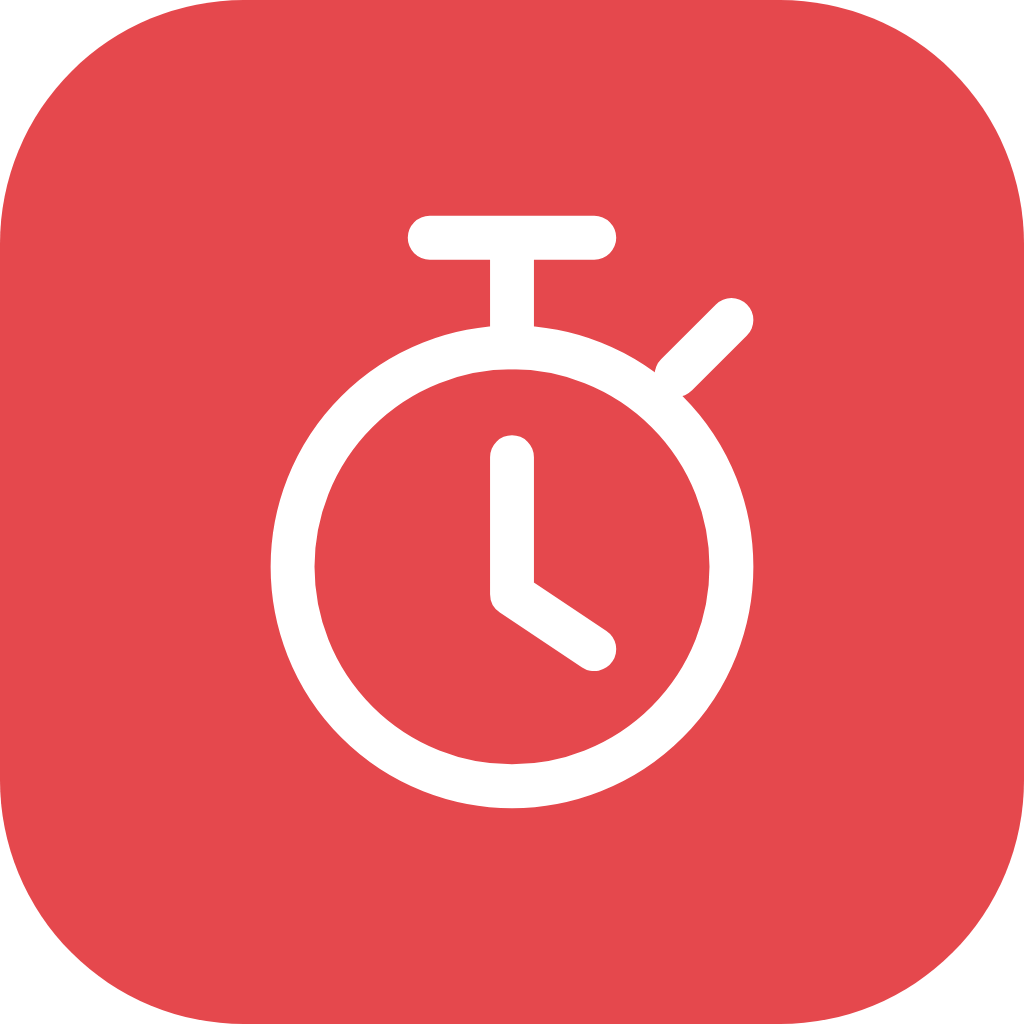
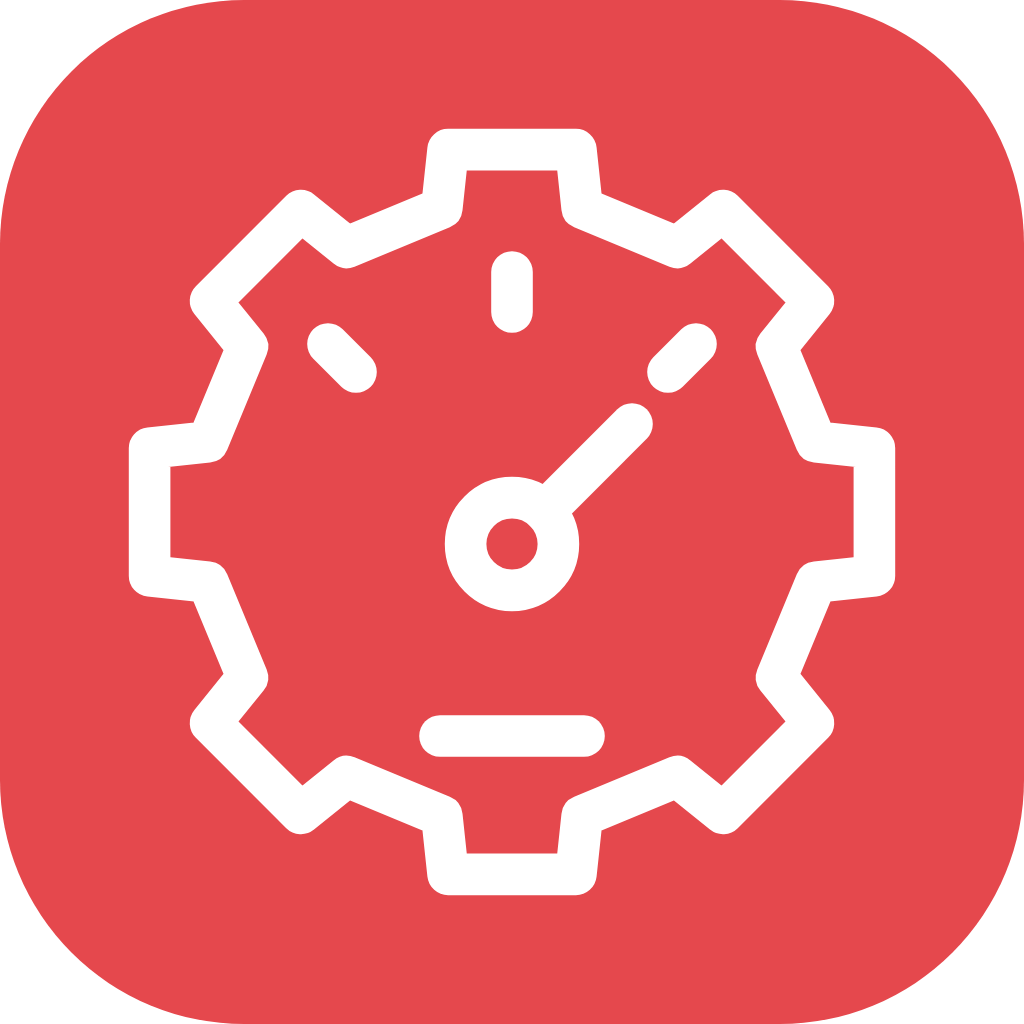
Release 0.8.1 with Gear and dial app identity

Changed region(s): [[0.125, 0.125, 0.875, 0.875]]

diff --git a/renderer/index.html b/renderer/index.html
@@ -1,6 +1,6 @@
 <!doctype html><html lang="en" data-theme="dark" data-tone="dark"><head><meta charset="utf-8"><meta name="viewport" content="width=device-width,initial-scale=1"><meta http-equiv="Content-Security-Policy" content="default-src 'self'; script-src 'self'; style-src 'self'; img-src 'self' data:; connect-src 'none'; object-src 'none'; base-uri 'none'; form-action 'none'"><title>SlotForge Telemetry</title><link rel="icon" href="../assets/icon.svg"><link rel="stylesheet" href="styles.css"><link rel="stylesheet" href="themes.css"><link rel="stylesheet" href="performance.css"><link rel="stylesheet" href="pages.css"><link rel="stylesheet" href="category-design.css"><link rel="stylesheet" href="race.css"></head><body>
 <header class="app-header"><a class="brand" href="#telemetry"><span class="brand-mark"></span><span>SlotForge <b>Telemetry</b><small>THE SLOT CAR WORKBENCH</small></span></a><nav class="main-nav" aria-label="Main navigation"><a href="#telemetry" data-route="telemetry" >Telemetry</a><a href="#analyze" data-route="analyze" >Analyze</a><a href="#library" data-route="library" id="library-button">Library<small id="library-count">0</small></a><a href="#settings" data-route="settings" >Settings</a></nav><div class="theme-switch" role="group" aria-label="Colour mode"><button data-tone-choice="light">☀ Light</button><button data-tone-choice="dark">☾ Dark</button></div></header>
-<div class="workspace-bar"><span id="paddock-global-status"><i class="dot"></i> Local workspace · offline</span><span id="save-state" role="status">Ready</span><span class="version">TELEMETRY 0.8.0</span></div><main>
+<div class="workspace-bar"><span id="paddock-global-status"><i class="dot"></i> Local workspace · offline</span><span id="save-state" role="status">Ready</span><span class="version">TELEMETRY 0.8.1</span></div><main>
 <section data-page="telemetry"><div class="page-head"><div><p class="eyebrow">YOUR WORKBENCH</p><h1>Telemetry</h1><p>Build your setup. See the numbers come together.</p></div><div class="actions"><button class="btn" id="new-setup">New setup</button><button class="btn" id="open-setup">Open file</button><button class="btn" id="save-setup">Export file</button><button class="btn" id="save-copy">Save as copy</button><button class="btn primary" id="save-library">Save setup</button></div></div><p id="library-workspace-status" class="library-workspace-status" role="status"></p><input id="setup-file" type="file" accept=".json,application/json" hidden>
 <nav id="setup-sections" class="tabs setup-sections" aria-label="Jump to setup inputs"></nav><div class="calculator-layout"><aside class="input-column" aria-label="Setup inputs">
         <section class="panel setup-panel"><div class="section-heading"><h2>Your setup</h2><button class="text-button" id="load-example">Load example</button></div><label class="field">Setup name<input id="name" name="name" maxlength="100" placeholder="e.g. Club GT · short track"></label></section>
@@ -12,7 +12,7 @@
 <section data-page="analyze" hidden><div class="page-head"><div><p class="eyebrow">UNDERSTAND YOUR SETUP</p><h1>Analyze</h1><p>Explore saved setups and make informed changes.</p></div><div class="segmented"><a href="#analyze" data-analysis-mode="overview">Setup analysis</a><a href="#analyze/compare" data-analysis-mode="compare">Compare setups</a></div></div><div id="analysis-empty" class="library-empty"><h2>Start with a saved setup.</h2><p>Save a setup from Telemetry to explore its numbers here.</p><a class="btn primary" href="#telemetry">Go to Telemetry</a></div><div id="analysis-content"><div id="analysis-overview"><div class="panel analysis-toolbar"><label class="field">Saved setup<select id="analysis-setup"></select></label><span class="badge">SAVED VERSION</span><button class="btn" id="analysis-edit">Edit in Telemetry</button></div><nav class="tabs" aria-label="Analysis topics"><button data-analysis-topic="performance" class="active">Performance</button><button data-analysis-topic="weight">Weight & ballast</button><button data-analysis-topic="wear">Tyre wear & clearance</button><button data-analysis-topic="gears">Gear finder</button><button data-analysis-topic="laps">Lap speed</button></nav><div id="analysis-performance" data-analysis-panel="performance"><div id="analysis-stats"></div><div id="curve-results"></div></div><section data-analysis-panel="weight" hidden><div id="weight-results" class="telemetry-results"></div></section><section data-analysis-panel="wear" hidden><div id="wear-results" class="telemetry-results"></div></section><section data-analysis-panel="gears" hidden><div id="gears-results" class="telemetry-results"></div></section><section data-analysis-panel="laps" hidden><div id="laps-results" class="telemetry-results"></div></section><p class="hint">Analysis uses the saved version. Changes in Telemetry appear here after you save them.</p></div><div id="analysis-compare" hidden><div class="panel compare-selectors"><label class="field">Setup A · baseline<select id="compare-a"></select></label><span class="versus">vs</span><label class="field">Setup B · alternative<select id="compare-b"></select></label></div><div class="comparison-toolbar"><h2>Side by side.</h2><label class="field">Highlight benefits for<select id="compare-goal"><option value="speed">Speed & driving force</option><option value="power">Power-to-weight</option><option value="neutral">Neutral differences</option></select></label></div><div id="comparison"></div><p class="hint">Green ↑ = higher selected performance metric. Red ↓ = lower. Gearing, rollout, weight and measured lap averages stay neutral: their value depends on the track and test conditions. A faster no-load ceiling does not guarantee a faster lap.</p></div></div></section>
 <section data-page="library" hidden><div class="page-head"><div><p class="eyebrow">YOUR SAVED SETUPS</p><h1>Library</h1><p>A place for every car, every track, every experiment.</p></div><div class="actions"><button class="btn" id="library-import">Import library</button><button class="btn" id="library-backup">Export library</button><a href="#telemetry" class="btn primary">Open workbench</a></div></div><div class="library-toolbar"><label class="field library-search">Search names & notes<input id="library-search" type="search" placeholder="Find a car or setup…"></label><label class="field">Sort<select id="library-sort"><option value="recent">Recently saved</option><option value="name">Name A–Z</option></select></label></div><input id="library-file" type="file" accept=".json,application/json" hidden><p id="library-error" class="note" role="alert" hidden></p><button class="btn" id="library-recover-export" hidden>Export unreadable data</button><div class="library-feedback"><p id="library-message" role="status"></p><button class="btn small" id="library-undo" hidden>Undo delete</button></div><div class="library-layout"><div id="library-list"></div><aside id="library-detail" class="panel"></aside></div><p class="hint">Saved on this device. Export your library to keep a separate backup.</p></section>
 <section data-page="settings" hidden><div class="page-head"><div><p class="eyebrow">MAKE IT YOUR WORKBENCH</p><h1>Settings</h1><p>Your appearance. Your understanding.</p></div></div><div class="settings-layout"><nav class="settings-nav" aria-label="Settings"><a href="#settings/appearance">Appearance</a><a href="#settings/calculations/gearing">Calculations explained</a></nav><div><section id="settings-appearance" class="panel"><h2>Appearance</h2><p class="muted">Familiar colours from the SlotForge family.</p><div id="theme-grid" class="theme-grid"></div><div id="custom-colors" hidden><div id="color-grid" class="color-grid"></div><p id="contrast-warning" class="hint"></p></div><p class="hint">The Light / Dark switch remembers your most recently selected theme in each mode.</p></section><section id="settings-calculations" hidden><h2>Calculations explained</h2><p class="muted">What each number means, how it is calculated, and where theory ends.</p><nav id="help-topics" class="help-topics" aria-label="Calculation topics"></nav><article id="help-content"></article></section></div></div></section>
-<footer><span>SlotForge Telemetry <b>0.8.0</b></span><span>Part of the SlotForge family · built from Paddock</span></footer></main><dialog id="library-editor" aria-labelledby="library-editor-title"><div class="dialog-head"><h2 id="library-editor-title">Save a setup</h2></div><div class="dialog-body"><p id="library-editor-description" class="muted tiny"></p><label class="field" id="library-name-field">Setup name<input id="library-entry-name" maxlength="100" autocomplete="off"></label><label class="field" id="library-notes-field">Notes<textarea id="library-entry-notes" maxlength="2000" rows="3" placeholder="Car, track, or what makes this setup different"></textarea></label><p id="library-editor-error" class="note" role="alert"></p><div class="actions"><button class="btn primary" id="library-editor-confirm">Save to library</button><button class="btn" id="library-save-copy" hidden>Save as new copy</button><button class="btn" id="library-editor-cancel">Cancel</button></div></div></dialog><div id="toast" role="status" hidden></div>
+<footer><span>SlotForge Telemetry <b>0.8.1</b></span><span>Part of the SlotForge family · built from Paddock</span></footer></main><dialog id="library-editor" aria-labelledby="library-editor-title"><div class="dialog-head"><h2 id="library-editor-title">Save a setup</h2></div><div class="dialog-body"><p id="library-editor-description" class="muted tiny"></p><label class="field" id="library-name-field">Setup name<input id="library-entry-name" maxlength="100" autocomplete="off"></label><label class="field" id="library-notes-field">Notes<textarea id="library-entry-notes" maxlength="2000" rows="3" placeholder="Car, track, or what makes this setup different"></textarea></label><p id="library-editor-error" class="note" role="alert"></p><div class="actions"><button class="btn primary" id="library-editor-confirm">Save to library</button><button class="btn" id="library-save-copy" hidden>Save as new copy</button><button class="btn" id="library-editor-cancel">Cancel</button></div></div></dialog><div id="toast" role="status" hidden></div>
 <script src="paddock-icons.js"></script><script src="design.js"></script><script src="theme.js"></script><script src="performance-model.js"></script><script src="telemetry-model.js"></script><script src="calculator-model.js"></script><script src="compare-model.js"></script><script src="performance-view.js"></script><script src="telemetry-view.js"></script><script src="library-model.js"></script><script src="library.js"></script><script src="pages.js"></script><script src="help.js"></script><script src="race-model.js"></script><script src="race-insights.js"></script><script src="race-progress.js"></script><script src="manual-laps-model.js"></script>
   <script src="manual-laps-ui.js"></script>
   <script src="race-ui.js"></script><script src="app.js"></script></body></html>

diff --git a/renderer/category-design.css b/renderer/category-design.css
@@ -15,3 +15,6 @@ main{padding:24px 28px}.page-head{margin-bottom:20px}.page-head h1{font-size:27p
 .calculation-detail{margin:18px 0;border-top:2px solid var(--category)}.calculation-detail h3{display:flex;align-items:center;gap:8px;margin-top:0}.calculation-detail h3 .sf-icon{color:var(--category);width:24px;height:24px;flex:none}.calculation-detail td{white-space:nowrap}.calculation-detail th{min-width:140px}.calculation-detail .hint{margin-bottom:0}
 
 .setup-sections{margin:0 0 20px;display:flex;align-items:center}.input-nav-label{font-size:12px;color:var(--muted);margin-right:6px}.setup-input-group{margin-top:18px;padding-top:18px;border-top:1px solid var(--line)}.setup-input-group.panel{margin-top:0;border-top:2px solid var(--category)}.setup-input-group h3{display:flex;align-items:center;gap:10px}.setup-input-group h3 .sf-icon{color:var(--category);width:25px;height:25px}.input-column .panel{scroll-margin-top:18px}.analysis-input-link{display:flex;align-items:center;justify-content:space-between;gap:12px;margin:0 0 16px;font-size:12px;color:var(--muted)}.analysis-input-link .btn{border-color:var(--category);flex-shrink:0}.analysis-input-link .sf-icon{color:var(--category);margin-right:7px}@media(max-width:760px){.analysis-input-link{flex-wrap:wrap}.setup-sections .input-nav-label{width:100%}}
+
+/* Keep the canonical app badge square at every responsive header size. */
+.brand-mark{height:auto;aspect-ratio:1;flex-shrink:0;background:none;border-radius:0}.brand-mark img{display:block;width:100%;height:auto}

diff --git a/renderer/design.js b/renderer/design.js
@@ -3,7 +3,7 @@ function initializeDesign(){
   const homeHead=document.querySelector('[data-page=telemetry] .page-head'),setupPanel=document.querySelector('.setup-panel');
   homeHead.classList.add('workbench-toolbar');homeHead.firstElementChild.replaceChildren(setupPanel);
   const decorate=(selector,name)=>{for(const el of document.querySelectorAll(selector))el.insertAdjacentHTML('afterbegin',sfIcon(name));};
-  document.querySelector('.brand-mark').innerHTML=sfIcon('timer');
+  document.querySelector('.brand-mark').innerHTML='<img src="../assets/icon.svg" alt="" width="42" height="42">';
   for(const [route,name] of Object.entries({telemetry:'setup',analyze:'timer',library:'library',settings:'settings'})){
     const link=document.querySelector(`[data-route="${route}"]`);link.querySelector('svg')?.remove();link.insertAdjacentHTML('afterbegin',sfIcon(name));
   }

diff --git a/README.md b/README.md
@@ -4,7 +4,7 @@
 
 # SlotForge Telemetry
 
-<img src="assets/icon.png" alt="SlotForge Telemetry stopwatch icon" width="96" align="right">
+<img src="assets/icon.png" alt="SlotForge Telemetry Gear & dial icon" width="96" align="right">
 
 **Understand your slotcar setup. Compare your options. Keep what works.**
 
@@ -12,9 +12,11 @@ SlotForge Telemetry is a desktop calculator for slotcar gearing, motors, tyres a
 
 Start with gear tooth counts and tyre diameter. Add motor ratings, weight, ballast or measured lap times whenever you want to go further. **You only need to enter the information you have.**
 
-**Version 0.8.0.** The app works offline, with no account or timing hardware required.
+**Version 0.8.1.** The app works offline, with no account or timing hardware required.
 
-**New in 0.8.0:** Enter lap times from any timer or notebook, analyze stints, follow Progress history and export comparison reports. Paddock imports remain available with a compatible Paddock host. See [connecting to Paddock](docs/PADDOCK-RESULTS.md).
+**New in 0.8.1:** A new Gear & dial app icon, combining mechanical setup and performance.
+
+**Lap analysis:** Enter lap times from any timer or notebook, analyze stints, follow Progress history and export comparison reports. Paddock imports remain available with a compatible Paddock host. See [connecting to Paddock](docs/PADDOCK-RESULTS.md).
 
 **[Download SlotForge Telemetry](https://github.com/theDutchmanJames/SlotForgeTelemetry/releases/latest)** — choose your computer below. No coding, Terminal or Node.js is needed to use the packaged app.
 
@@ -30,10 +32,10 @@ Open the [latest release](https://github.com/theDutchmanJames/SlotForgeTelemetry
 
 | Your computer | Download | What to do |
 | --- | --- | --- |
-| **Windows, 64-bit Intel/AMD** | [Windows Portable.exe](https://github.com/theDutchmanJames/SlotForgeTelemetry/releases/download/v0.8.0/SlotForgeTelemetry-0.8.0-windows-x64-Portable.exe) | Save it, then double-click it. |
-| **Mac, Apple Silicon or Intel** | [Mac universal.dmg](https://github.com/theDutchmanJames/SlotForgeTelemetry/releases/download/v0.8.0/SlotForgeTelemetry-0.8.0-mac-universal.dmg) | Open it and drag the app into Applications. |
-| **Ubuntu, Debian or Mint, 64-bit Intel/AMD** | [Linux.deb](https://github.com/theDutchmanJames/SlotForgeTelemetry/releases/download/v0.8.0/SlotForgeTelemetry-0.8.0-linux-amd64.deb) | Open with your system's software installer. |
-| **Other Linux desktops, 64-bit Intel/AMD** | [Linux.AppImage](https://github.com/theDutchmanJames/SlotForgeTelemetry/releases/download/v0.8.0/SlotForgeTelemetry-0.8.0-linux-x86_64.AppImage) | Allow it to run as a program, then double-click it. |
+| **Windows, 64-bit Intel/AMD** | [Windows Portable.exe](https://github.com/theDutchmanJames/SlotForgeTelemetry/releases/download/v0.8.1/SlotForgeTelemetry-0.8.1-windows-x64-Portable.exe) | Save it, then double-click it. |
+| **Mac, Apple Silicon or Intel** | [Mac universal.dmg](https://github.com/theDutchmanJames/SlotForgeTelemetry/releases/download/v0.8.1/SlotForgeTelemetry-0.8.1-mac-universal.dmg) | Open it and drag the app into Applications. |
+| **Ubuntu, Debian or Mint, 64-bit Intel/AMD** | [Linux.deb](https://github.com/theDutchmanJames/SlotForgeTelemetry/releases/download/v0.8.1/SlotForgeTelemetry-0.8.1-linux-amd64.deb) | Open with your system's software installer. |
+| **Other Linux desktops, 64-bit Intel/AMD** | [Linux.AppImage](https://github.com/theDutchmanJames/SlotForgeTelemetry/releases/download/v0.8.1/SlotForgeTelemetry-0.8.1-linux-x86_64.AppImage) | Allow it to run as a program, then double-click it. |
 
 The Mac ZIP contains the same app as the DMG. The configured Linux release target is x64; the source builder supports an ARM64 Linux host.
 
@@ -43,7 +45,7 @@ The Mac ZIP contains the same app as the DMG. The configured Linux release targe
 
 1. Click **Windows Portable.exe** in the table above. Your browser normally saves it in **Downloads**.
 2. Move the file somewhere easy to find, such as a **SlotForge Telemetry** folder inside **Documents**.
-3. Double-click **SlotForgeTelemetry-0.8.0-windows-x64-Portable.exe**. There is no installation wizard.
+3. Double-click **SlotForgeTelemetry-0.8.1-windows-x64-Portable.exe**. There is no installation wizard.
 4. Try the included example. For easier access later, create a shortcut or pin the running app to your taskbar.
 
 The Windows build is unsigned, so Windows may show **unknown publisher** or **Windows protected your PC**. Check that you downloaded it from this repository. If you trust the download and Windows offers it, choose **More info → Run anyway**. On a managed work or school computer, ask your administrator if it is blocked. Do not turn off antivirus protection.

diff --git a/docs/releases/v0.8.1.md b/docs/releases/v0.8.1.md
@@ -1,0 +1,24 @@
+**SlotForge Telemetry 0.8.1 introduces the new Gear & dial app icon.**
+
+The gear-shaped speedometer brings mechanical setup and performance together. It replaces the stopwatch in the app header, desktop packages and README. The README also features the SlotForge App Collection logo and links to the other apps.
+
+This is a visual update. Calculations, lap analysis, saved libraries and Paddock integration work as before.
+
+### Choose your download
+
+| Computer | File in Assets |
+| --- | --- |
+| Windows, 64-bit Intel/AMD | **SlotForgeTelemetry-0.8.1-windows-x64-Portable.exe** — save, then double-click. |
+| Apple Silicon or Intel Mac | **SlotForgeTelemetry-0.8.1-mac-universal.dmg** — open and drag into Applications. The ZIP contains the same app. |
+| Ubuntu / Debian / Mint, x64 | **SlotForgeTelemetry-0.8.1-linux-amd64.deb** — open with your software installer. |
+| Other Linux desktops, x64 | **SlotForgeTelemetry-0.8.1-linux-x86_64.AppImage** — allow execution in Properties, then open. |
+
+No Terminal or coding is required. GitHub's **Source code** archives are for developers. `SHA256SUMS.txt` provides download integrity checksums.
+
+### Updating
+
+Back up your setup library and manual laps, close the old app, then install or open the new version. Existing profiles, setups, lap data and themes are retained.
+
+Windows is unsigned; macOS is ad-hoc signed and not notarized. The [installation guide](https://github.com/theDutchmanJames/SlotForgeTelemetry#download-and-install) explains first-launch prompts.
+
+[Changelog](https://github.com/theDutchmanJames/SlotForgeTelemetry/blob/v0.8.1/CHANGELOG.md) · [Report an issue](https://github.com/theDutchmanJames/SlotForgeTelemetry/issues)

diff --git a/docs/BUILDING.md b/docs/BUILDING.md
@@ -75,3 +75,7 @@ Engineering references: [Pololu motor and gearing principles](https://www.pololu
 Run `npm run check`, `npm test`, `npm run test:ui` and `npm run test:shell` for local validation. Desktop tests use profiles under `test-results`, separate from the user's app data. Unix builder tests use Bash on Linux/macOS; on Windows, set `SLOTFORGE_TEST_BASH` to a Bash executable and add its companion utility directory to PATH. These shell tests simulate packaging commands, not native installation or runtime behavior.
 
 Run **Actions → Build release packages → Run workflow** on the intended main-branch commit. Native Windows, Linux x64 and macOS runners install locked dependencies, run checks and produce workflow artifacts. Windows also runs isolated desktop and main-process checks. After all builds succeed, a separate job prepares a draft release with five app packages and SHA-256 checksums. Verify its commit, assets and checksums before publishing. The Mac app is ad-hoc signed, not Developer ID signed or notarized.
+
+## App icon
+
+The canonical Gear & dial artwork is assets/icon.svg, also used by the app header and favicon. After editing it, run npm run icons to regenerate the 1024 px PNG and the Windows ICO containing 16–256 px sizes. Commit all three assets together.

diff --git a/CHANGELOG.md b/CHANGELOG.md
@@ -1,5 +1,12 @@
 # Changelog
 
+## 0.8.1 — 2 November 2026 · Gear & dial identity
+
+- Replaced the stopwatch app icon with the approved Gear & dial design, combining a gear outline with a speedometer needle and scale.
+- Use the same SVG in the app header and favicon, with matching PNG and multi-size Windows ICO exports for desktop packages and the README.
+- Added the SlotForge App Collection brand logo and links to Timing, Paddock, Livery, Decals and Circuit in the README.
+- Calculations, saved data and Paddock integration are unchanged.
+
 ## 0.8.0 — 1 November 2026 · Manual laps, deeper analysis and reports
 
 - Added manual lap sessions without Paddock: paste times or numbered columns, review parsed values, mark invalid/pit laps, and save with car, track, driver, source and optional setup details.
